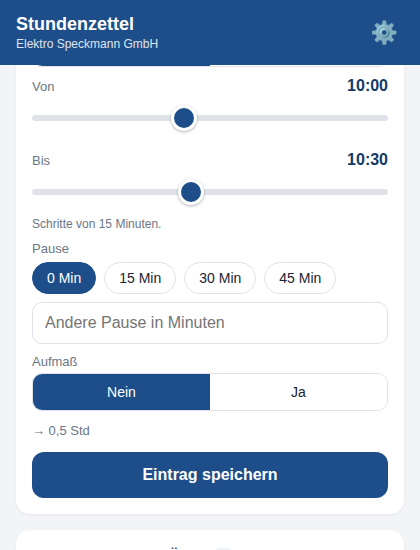
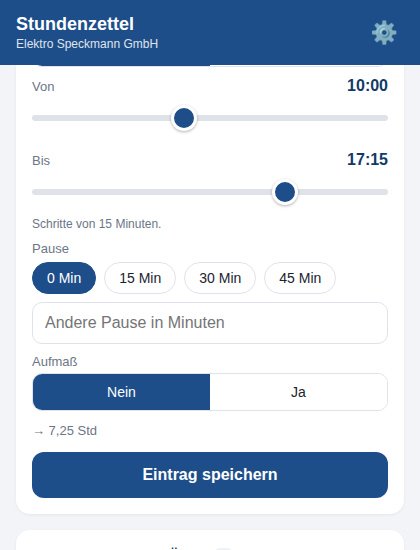
Slider anpassung

diff --git a/app.js b/app.js
@@ -340,6 +340,45 @@ function setEndSliderHHMM(hhmm) {
   $('f-end-label').textContent = quarterIndexToHHMM(idx);
 }
 
+// Verhindert, dass eine Berührung/Klick an einer beliebigen Stelle des Schiebereglers
+// (außerhalb des Reglerknopfs) den Wert springen lässt — nur ein Ziehen am Knopf selbst
+// soll die Uhrzeit verändern.
+function isPointerOnThumb(inputEl, clientX) {
+  const rect = inputEl.getBoundingClientRect();
+  const min = parseFloat(inputEl.min) || 0;
+  const max = parseFloat(inputEl.max) || 100;
+  const val = parseFloat(inputEl.value);
+  const thumbSize = 26; // an unsere CSS-Reglergröße angepasst
+  const usableWidth = Math.max(0, rect.width - thumbSize);
+  const fraction = max > min ? (val - min) / (max - min) : 0;
+  const thumbCenterX = rect.left + thumbSize / 2 + fraction * usableWidth;
+  const hitRadius = thumbSize / 2 + 10; // etwas Toleranz für ungenaues Antippen
+  return Math.abs(clientX - thumbCenterX) <= hitRadius;
+}
+
+function restrictSliderToThumbDrag(inputEl) {
+  inputEl.addEventListener('pointerdown', (e) => {
+    if (!isPointerOnThumb(inputEl, e.clientX)) {
+      e.preventDefault();
+    }
+  });
+}
+
+// Sorgt dafür, dass "Von" nie gleich oder später als "Bis" stehen kann (und umgekehrt),
+// damit keine unmöglichen Zeiten wie "von 15:00 bis 11:30" entstehen können.
+function clampTimeSliders(startEl, endEl, movedEl) {
+  let startVal = parseInt(startEl.value, 10);
+  let endVal = parseInt(endEl.value, 10);
+  if (movedEl === startEl && startVal >= endVal) {
+    startVal = Math.max(0, endVal - 1);
+    startEl.value = startVal;
+  } else if (movedEl === endEl && endVal <= startVal) {
+    endVal = Math.min(QUARTER_MAX, startVal + 1);
+    endEl.value = endVal;
+  }
+  return { startVal, endVal };
+}
+
 function updateTimeDefaults() {
   const dateVal = $('f-date').value || todayISO();
   const lastEnd = lastEndTimeForDate(dateVal);
@@ -408,12 +447,17 @@ function initForm() {
     document.querySelectorAll('#aufmassSeg button').forEach(b => b.classList.toggle('active', b === btn));
   });
 
+  restrictSliderToThumbDrag($('f-start'));
+  restrictSliderToThumbDrag($('f-end'));
+
   $('f-start').addEventListener('input', () => {
-    $('f-start-label').textContent = quarterIndexToHHMM(parseInt($('f-start').value, 10));
+    const { startVal } = clampTimeSliders($('f-start'), $('f-end'), $('f-start'));
+    $('f-start-label').textContent = quarterIndexToHHMM(startVal);
     updateComputedHint();
   });
   $('f-end').addEventListener('input', () => {
-    $('f-end-label').textContent = quarterIndexToHHMM(parseInt($('f-end').value, 10));
+    const { endVal } = clampTimeSliders($('f-start'), $('f-end'), $('f-end'));
+    $('f-end-label').textContent = quarterIndexToHHMM(endVal);
     updateComputedHint();
   });
   $('f-duration').addEventListener('input', updateComputedHint);
@@ -672,11 +716,17 @@ function openEditModal(id) {
     modal.querySelector('#m-rangeFields').style.display = mTimeMode==='range' ? 'block':'none';
     modal.querySelector('#m-durationFields').style.display = mTimeMode==='duration' ? 'block':'none';
   });
-  modal.querySelector('#m-start').addEventListener('input', (ev) => {
-    modal.querySelector('#m-start-label').textContent = quarterIndexToHHMM(parseInt(ev.target.value, 10));
+  const mStartEl = modal.querySelector('#m-start');
+  const mEndEl = modal.querySelector('#m-end');
+  restrictSliderToThumbDrag(mStartEl);
+  restrictSliderToThumbDrag(mEndEl);
+  mStartEl.addEventListener('input', () => {
+    const { startVal } = clampTimeSliders(mStartEl, mEndEl, mStartEl);
+    modal.querySelector('#m-start-label').textContent = quarterIndexToHHMM(startVal);
   });
-  modal.querySelector('#m-end').addEventListener('input', (ev) => {
-    modal.querySelector('#m-end-label').textContent = quarterIndexToHHMM(parseInt(ev.target.value, 10));
+  mEndEl.addEventListener('input', () => {
+    const { endVal } = clampTimeSliders(mStartEl, mEndEl, mEndEl);
+    modal.querySelector('#m-end-label').textContent = quarterIndexToHHMM(endVal);
   });
   modal.querySelector('#m-aufmassSeg').addEventListener('click', (ev) => {
     const btn = ev.target.closest('button[data-aufmass]'); if (!btn) return;

diff --git a/sw.js b/sw.js
@@ -1,4 +1,4 @@
-const CACHE_NAME = 'stundenzettel-v3';
+const CACHE_NAME = 'stundenzettel-v4';
 const ASSETS = [
   './',
   './index.html',
